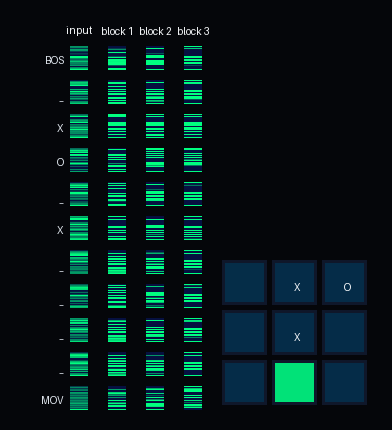
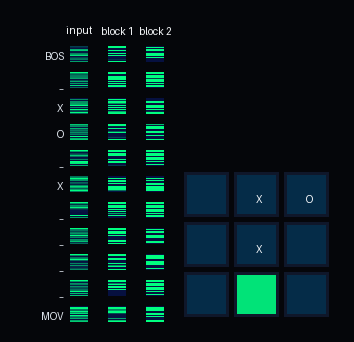
ok done for now

diff --git a/index.html b/index.html
@@ -152,7 +152,7 @@
   <script>(function () {
       'use strict';
 
[2 lines of base64/hex data omitted]
               let binaryString;
               if (typeof atob === "function") {
                 binaryString = atob(base64);
@@ -164,7 +164,7 @@
                 data[i] = binaryString.charCodeAt(i);
               }
 
-      var modelConfig = {"n_layer":3,"n_embd":24,"block_size":11,"n_head":4};
+      var modelConfig = {"n_layer":2,"n_embd":16,"block_size":11,"n_head":4};
 
       const TOKENS = ["BOS", "MOV"]
         .concat(Array.from({ length: 9 }, (_, i) => String(i + 1)))
